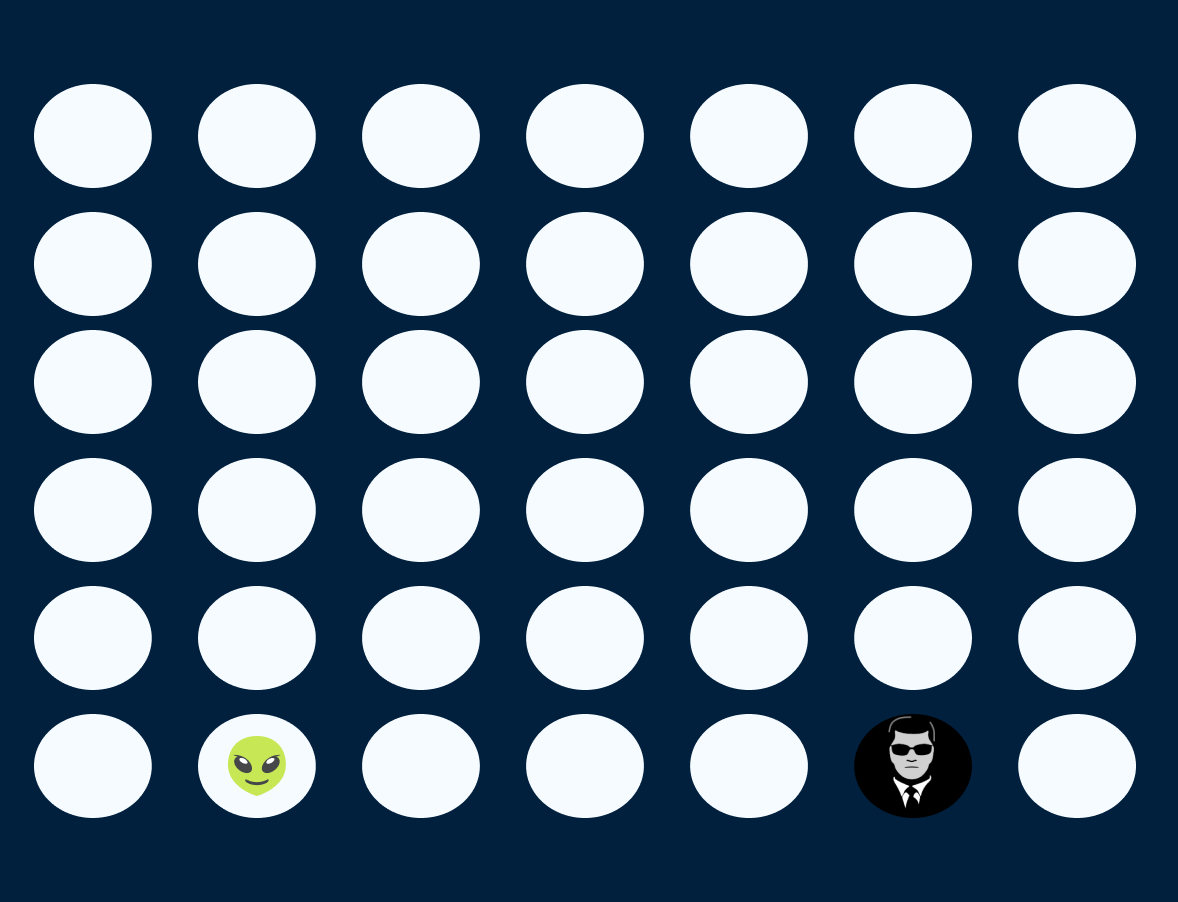
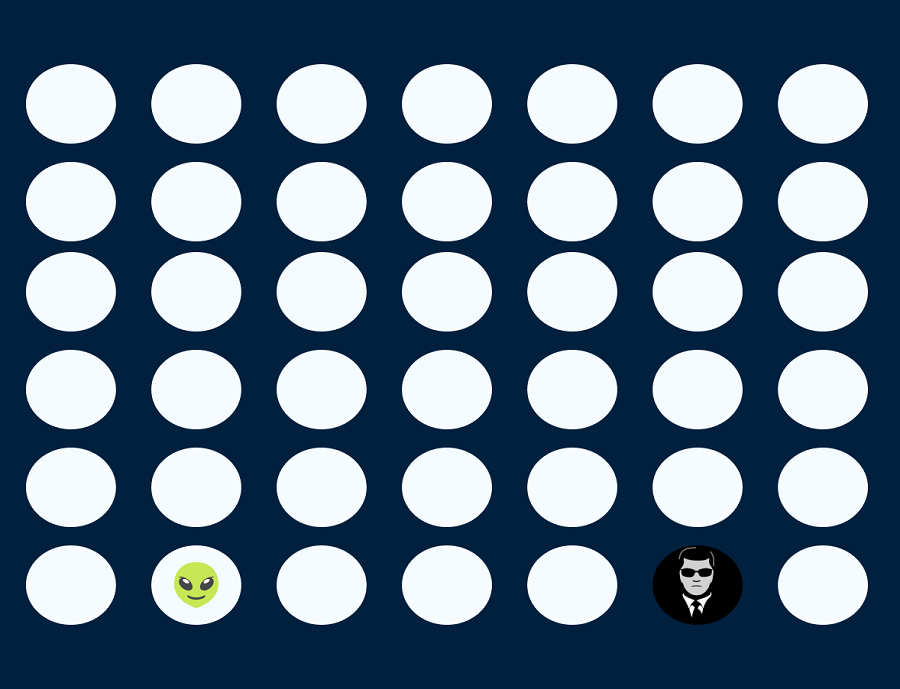
botones hover puestos, juego achicado, anchor corregido

diff --git a/TP2/EntregaFinal/js/main.js b/TP2/EntregaFinal/js/main.js
@@ -82,81 +82,3 @@ function captchacompletado (){
  
 
 
-
-/*
-let botonesFooter = document.querySelectorAll("#footer-btn");
-
-botonesFooter.forEach(boton => {
-    boton.addEventListener("click", function() {
-        boton.parentElement.nextElementSibling.classList.toggle("show");
-    });
-});
-
-let botonesNav = document.querySelectorAll("#menu-nav");
-
-botonesNav.forEach(boton => {
-    boton.addEventListener("click", function() {
-        boton.parentElement.nextElementSibling.classList.toggle("show");
-    })
-});
-
-let openedBurguer = false; //
-
-document.querySelector("#menu-burguer").addEventListener("click", function( ) {
-    document.querySelector("#menuH").classList.toggle("show");
-    let img = document.querySelector("#imgburguer");
-
-    if(!openedBurguer) {
-        img.src = "imgs/iconos/menuabierto.png";
-    }
-    else {
-        img.src = "imgs/iconos/menucerrado.png";
-    }
-
-    openedBurguer = !openedBurguer;
-
-    
-});
-
-let ayudaDesplegado = false;
-
-let btnayuda = document.querySelector("#btn-help"); 
-let texto = btnayuda.textContent;
-
-btnayuda.addEventListener("click", function() {
-    this.classList.toggle("show");
-    this.parentElement.nextElementSibling.classList.toggle("show");
-
-    if(!ayudaDesplegado) {
-        btnayuda.innerHTML = "cerrar";
-    }
-    else {
-        btnayuda.innerHTML = texto;
-    }
-   
-    ayudaDesplegado = !ayudaDesplegado;
-
-});
-
-
-let compartirDesplegado = false;
-
-let compartir = document.querySelector("#btn-compartir");
-//let textoComp = compartir.textContent;
-
-
-compartir.addEventListener("click", function() {
-    compartir.parentElement.nextElementSibling.classList.toggle("show");
-    compartir.classList.toggle("show");
-
-    if(!compartirDesplegado) {
-        compartir.innerHTML = "Cerrar";
-    }
-    else {
-        compartir.innerHTML = textoComp;
-    }
-   
-    compartirDesplegado = !compartirDesplegado;
-});
-
-*/

diff --git a/TP2/EntregaFinal/css/style.css b/TP2/EntregaFinal/css/style.css
@@ -775,15 +775,22 @@ a.colorblanco{
 
 .game-container {
     margin-top: 0.7em;
-    height: 56.375em;
+    height: 26em;
     position: relative;
 }
 
+li:hover {
+    color: var(--prim);
+}
 
+.cerrarSesion {
+    color: var(--prim);
+}
 
 .game-container img {
     width: 100%;
     height: 100%;
+    object-fit: fill;
 }
 
 .info-game {
@@ -1474,6 +1481,12 @@ height: 1.48313rem;
     color: var(--blanco);
 }
 
+.perfilDesplegado.show ul a:hover, .carritoDesplegado.show ul a:hover, .hamburguer-menu-desplegado.show ul a:hover {
+    text-decoration: none;
+    color: var(--prim);
+}
+
+
 
 
 
@@ -1737,10 +1750,6 @@ height: 1.48313rem;
     user-select: none;
 }
 
-.btn-left:hover,
-.btn-right:hover {
-    background-color: var(--prim);
-}
 
 .btn-left img {
     width: 2em;

diff --git a/TP2/EntregaFinal/juego.html b/TP2/EntregaFinal/juego.html
@@ -51,7 +51,7 @@
                             <li>Mi carrito</li>
                             <li>Mis favoritos</li>
                             <li>Mis logros</li>
-                            <li><a href="ingresar.html">Cerrar sesion</a></li>
+                            <li><a class="cerrarSesion" href="ingresar.html">Cerrar sesion</a></li>
                         </ul>
                     </div>
     
